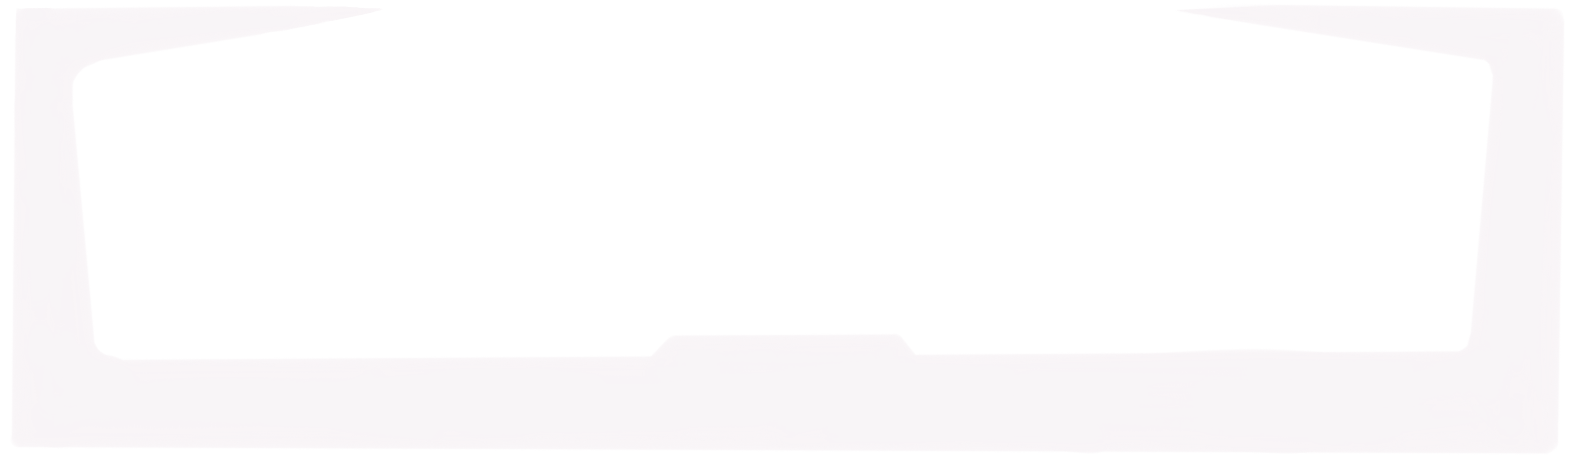
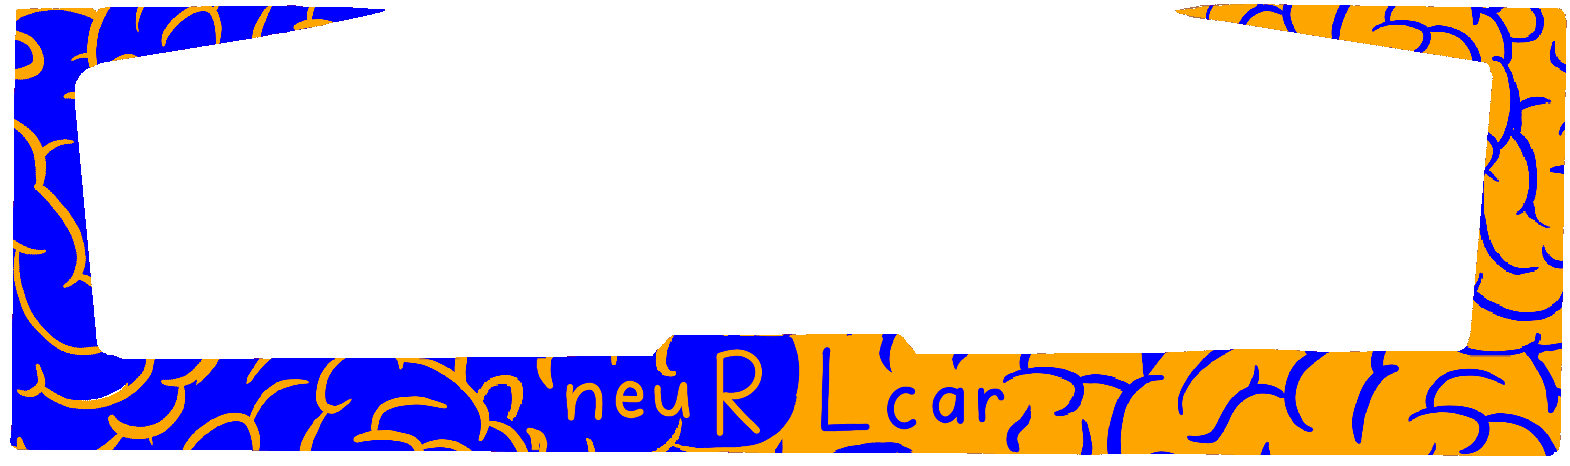
Final scoreboard wrapper and UI tweaks

diff --git a/neuRLcar/neuRLcarCanvasRenderer.cpp b/neuRLcar/neuRLcarCanvasRenderer.cpp
@@ -273,7 +273,6 @@ struct NeuRLcarConfig
 
     int mainEvalAlpha = 220;
 
-    bool showTitleText = true;
     bool showHotkeyReminders = true;
 
     int pastRows = 150;          // frames
@@ -290,7 +289,6 @@ static NeuRLcarConfig LoadConfig(CVarManagerWrapper* cvarManager)
     cfg.showMainEval = cvarManager->getCvar("neurlcar_ui_show_maineval").getBoolValue();
     cfg.showMainBackground = cvarManager->getCvar("neurlcar_ui_show_mainbg").getBoolValue();
 
-    cfg.showTitleText = cvarManager->getCvar("neurlcar_ui_show_title").getBoolValue();
     cfg.showHotkeyReminders = cvarManager->getCvar("neurlcar_ui_show_hotkey_reminders").getBoolValue();
 
     cfg.pastRows = cvarManager->getCvar("neurlcar_ui_past_breadth").getIntValue();
@@ -529,12 +527,13 @@ static void DrawScoreboardWrapperPng(CanvasWrapper& canvas, GameWrapper* gw)
     float y = -(screen.Y * yUpFrac);
 
     canvas.SetPosition(Vector2(x, y));
+    canvas.SetColor(255, 255, 255, 255);
     canvas.DrawTexture(img.get(), scale);
 }
 
 
 
-// ====================
+// ===================
 // Canvas entrypoint
 // ====================
 void neuRLcar::RenderCanvas(CanvasWrapper canvas)
@@ -603,13 +602,6 @@ void neuRLcar::RenderCanvas(CanvasWrapper canvas)
 
     for (auto& el : elements)
         if (el) el->Render(ctx);
-
-    if (cfg.showTitleText)
-    {
-        float xCenter = lay.screenW * 0.5f;
-        float y = lay.screenH * 0.00f;
-        DrawCenteredText(canvas, "neuRLcar :D", xCenter, y, 255, 255, 255, 255);
-    }
 
 
 

diff --git a/neuRLcar/neuRLcar.cpp b/neuRLcar/neuRLcar.cpp
@@ -183,7 +183,7 @@ void neuRLcar::onLoad()
 
 	cvarManager->registerCvar("neurlcar_model_ready", "0", "1 if the current model has required applet exe and _internal folder");
 
-	cvarManager->registerCvar("neurlcar_ui_show_topbars", "1", "");
+	cvarManager->registerCvar("neurlcar_ui_show_topbars", "0", "");
 	cvarManager->registerCvar("neurlcar_ui_show_maineval", "1", "");
 	cvarManager->registerCvar("neurlcar_ui_show_mainbg", "1", "");
 	cvarManager->registerCvar("neurlcar_ui_show_midline", "1", "");
@@ -193,7 +193,6 @@ void neuRLcar::onLoad()
 	cvarManager->registerCvar("neurlcar_ui_smoothing_window", "0", "");
 	cvarManager->registerCvar("neurlcar_ui_debug_grid", "0", "Show debug grid (1% increments)");
 	cvarManager->registerCvar("neurlcar_ui_enabled", "1", "Enable neuRLcar UI");
-	cvarManager->registerCvar("neurlcar_ui_show_title", "1", "Show 'neuRLcar' title text");
 	cvarManager->registerCvar("neurlcar_ui_show_hotkey_reminders", "1", "Show hotkey reminder text");
 	cvarManager->registerCvar("neurlcar_ui_maineval_alpha","165","Alpha transparency for main eval background (0-255)",true, true, 0.0f, true, 255.0f);
 	cvarManager->registerCvar(

diff --git a/neuRLcar/neuRLcarSettings.cpp b/neuRLcar/neuRLcarSettings.cpp
@@ -257,10 +257,6 @@ void neuRLcar::RenderSettingsContents()
     if (ImGui::Checkbox("Show hotkey reminders", &b))
         SetBoolAndSave("neurlcar_ui_show_hotkey_reminders", b);
 
-    b = C("neurlcar_ui_show_title").getBoolValue();
-    if (ImGui::Checkbox("Show neuRLcar title", &b))
-        SetBoolAndSave("neurlcar_ui_show_title", b);
-
     b = C("neurlcar_ui_enabled").getBoolValue();
     if (ImGui::Checkbox("neuRLcar replay overlay on/off", &b))
         SetBoolAndSave("neurlcar_ui_enabled", b);

diff --git a/neuRLcar/version.h b/neuRLcar/version.h
@@ -2,7 +2,7 @@
 #define VERSION_MAJOR 1
 #define VERSION_MINOR 0
 #define VERSION_PATCH 0
-#define VERSION_BUILD 481
+#define VERSION_BUILD 486
 
 #define stringify(a) stringify_(a)
 #define stringify_(a) #a
